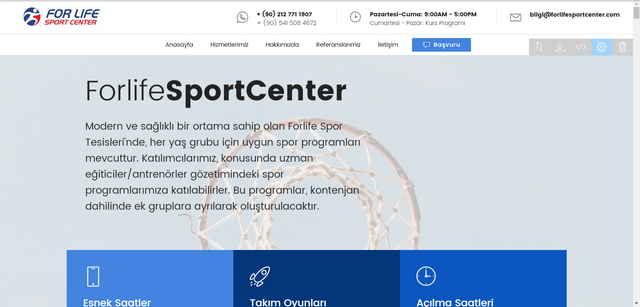
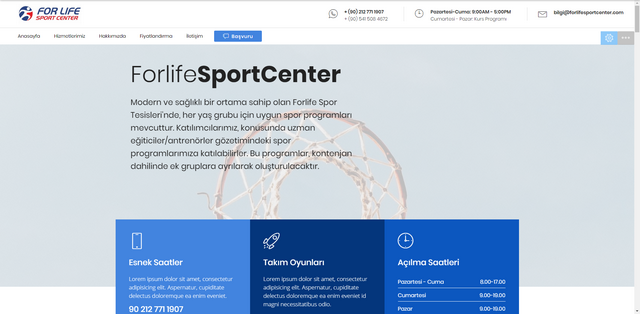
Title Düzelt

diff --git a/index.html b/index.html
@@ -7,8 +7,9 @@
   <meta name="generator" content="Mobirise v4.6.5, mobirise.com">
   <meta name="viewport" content="width=device-width, initial-scale=1, minimum-scale=1">
   <link rel="shortcut icon" href="assets/images/ht-logo-128x128-1.png" type="image/x-icon">
-  <meta name="description" content="">
-  <title>Home</title>
+  <meta name="description" content="Forlifesporcenter (Final inşaat spor kulübü - FİSK fisk)
+U11, U12, U13, U14, U15, U16, U18, U21   Erkekler Basketbol Takımı">
+  <title>Forlifesporcenter (Final İnşaat Spor Kulübü - FİSK)</title>
   <link rel="stylesheet" href="assets/icon54/style.css">
   <link rel="stylesheet" href="assets/web/assets/mobirise-icons/mobirise-icons.css">
   <link rel="stylesheet" href="assets/tether/tether.min.css">
@@ -23,7 +24,7 @@
   <link rel="stylesheet" href="assets/mobirise/css/mbr-additional.css" type="text/css">
   
   
-  
+  Forlifesporcenter (Final İnşaat Spor Kulübü - FİSK) TBF
 </head>
 <body>
   <section class="menu cid-qFxjvEnzFq" once="menu" id="menu4-19">
@@ -122,7 +123,7 @@
                 <span class="mbr-iconfont mbri-mobile display-2"></span>
             </div>
             <h4 class="box-item-title pb-3 mbr-fonts-style display-5">Esnek Saatler</h4>
-            <p class="box-item-text mbr-fonts-style display-7">Lorem ipsum dolor sit amet, consectetur adipisicing elit. Aspernatur, cupiditate delectus doloremque ea enim eveniet.</p>
+            <p class="box-item-text mbr-fonts-style display-7">Final İnşaat Spor Kulübü - FİSK lisanslı basketbolcularımızla profesyonel ligde güçlü ve iddialıyız</p>
             <h5 class="mbr-fonts-style display-5">90 212 771 1907</h5>
         </div>
         <div class="box-item">
@@ -775,7 +776,7 @@ manzarayı defalarca izleyebilmek için elinizden geleni yapmaya başlarsınız.
                 <div data-form-type="formoid">
                     <div class="form-block" data-form-type="formoid">
                         <div data-form-alert="" hidden="">Tesekkurler!</div>
[2 lines of base64/hex data omitted]
                             <div class="row">
                                 <div class="col-md-12" data-for="email">
                                     <input type="text" class="form-control input" name="email" data-form-field="Email" placeholder="Email" required="" id="email-footer4-v">
